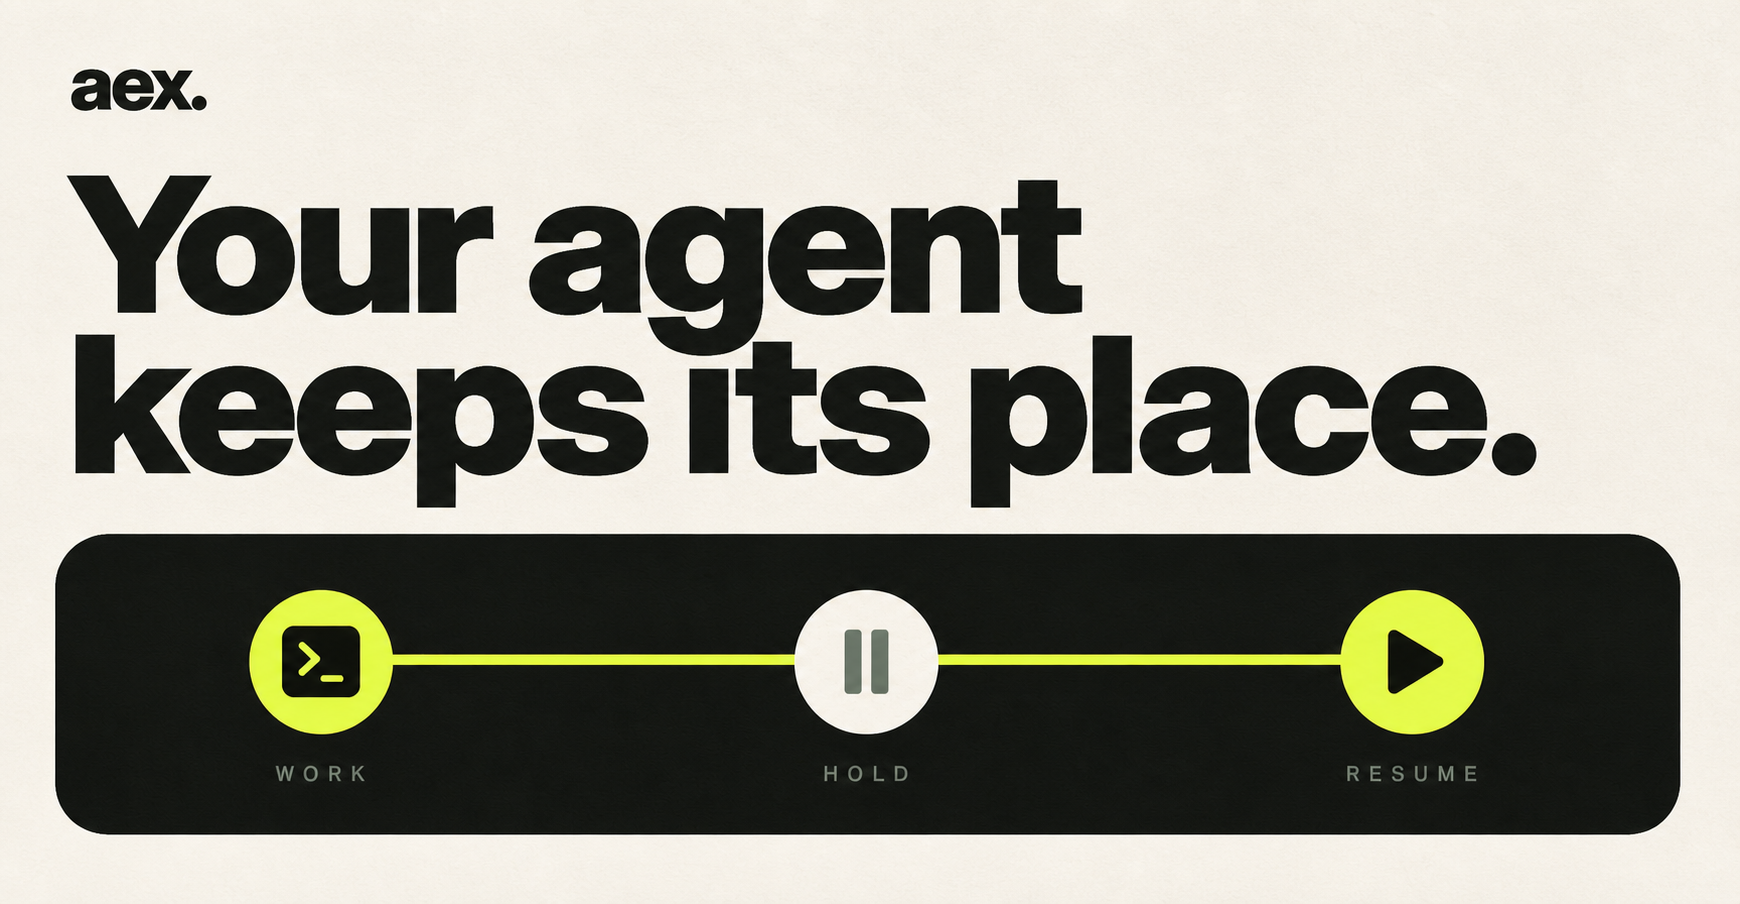
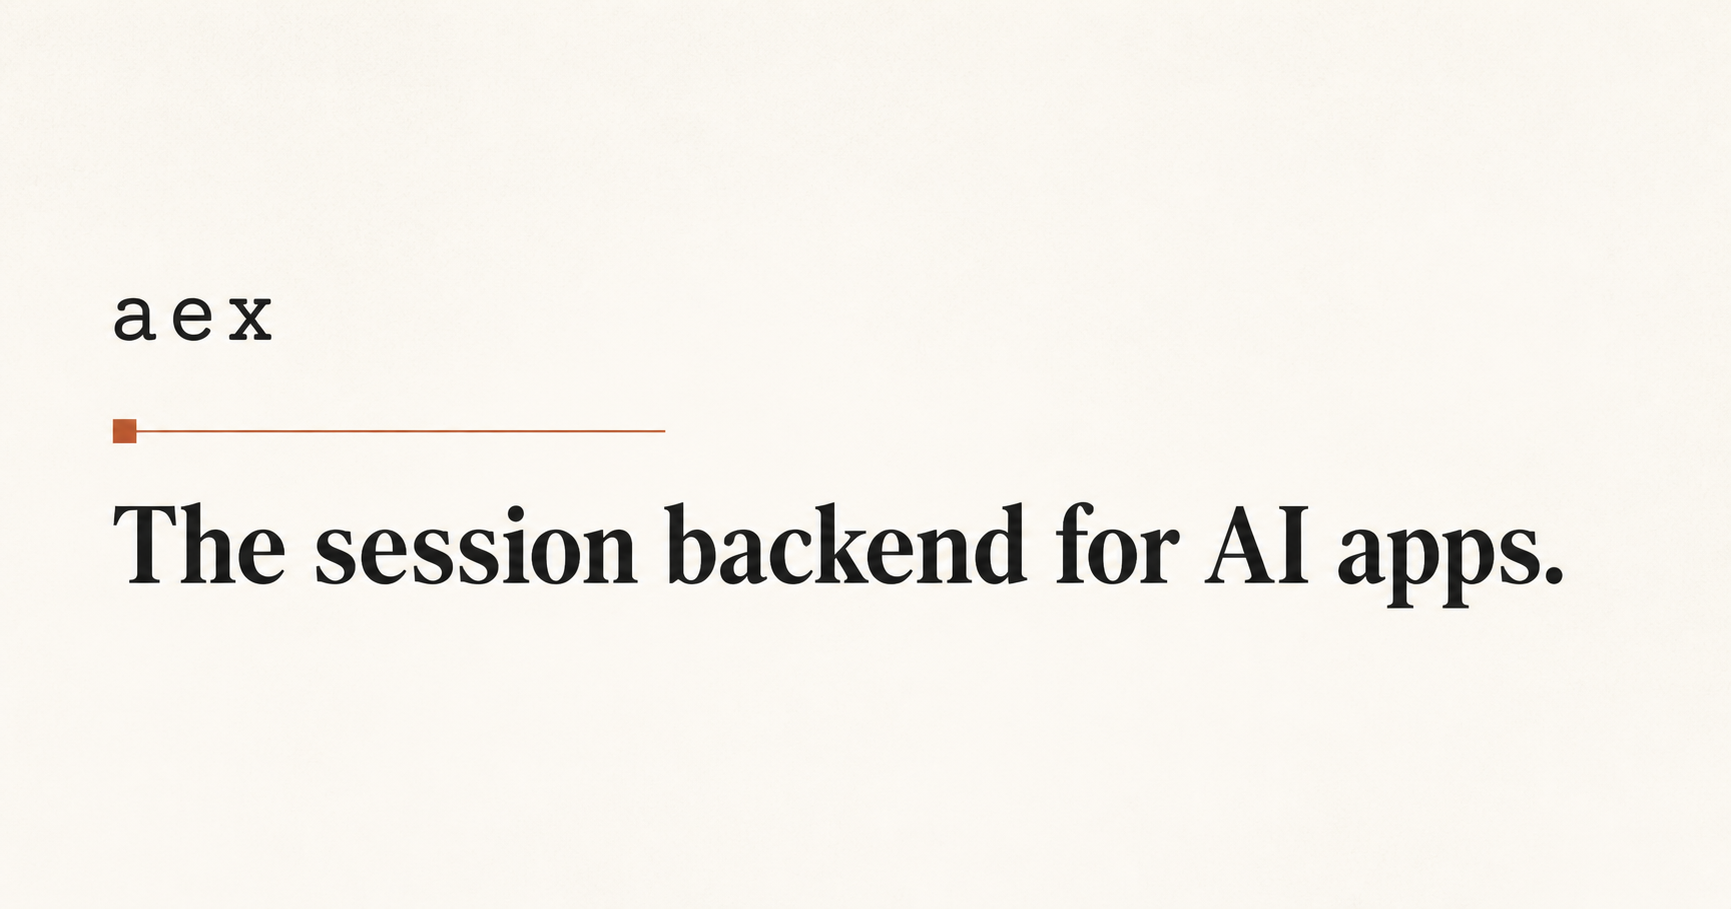
site: launch the minimal beta experience (#17)

diff --git a/app/page.tsx b/app/page.tsx
@@ -7,27 +7,40 @@ import { WaitlistForm } from "./components/WaitlistForm";
 export const metadata: Metadata = {
   title: "The session backend for AI apps",
   description:
-    "Add an agent to your product with one API. AEX keeps its model, conversation, tools, and Linux workspace together.",
+    "Start a durable AI session, give it work, and get back text or validated data.",
 };
 
 const product = [
   {
-    title: "One session",
-    body: "The conversation, model calls, tools, files, and artifacts share one durable identity. Your application has one thing to create, observe, and resume.",
+    title: "Sessions",
+    body: "One durable identity holds the conversation, model, tools, and working files. Send another message whenever you need to continue.",
   },
   {
-    title: "A Linux workspace",
-    body: "Each session can work in an isolated machine. Compute can stop between turns while the workspace and session state stay in place.",
+    title: "Tools",
+    body: "Every session starts with a computer and a small, useful toolset. Additional capabilities compose into the same session model as the beta expands.",
   },
   {
-    title: "Your model key",
-    body: "Use OpenAI or Anthropic with your own provider key. AEX encrypts it for the session and adds no markup to model usage.",
-  },
-  {
-    title: "Your app stays yours",
-    body: "Keep your frontend, database, authentication, and deployment. Call AEX only for the agent runtime behind your product.",
+    title: "Output",
+    body: "Use send() for text or output() for data validated against your Zod schema. Schema handling and one bounded repair stay outside the session conversation.",
   },
 ];
+
+const example = `import { Aex } from "@aexhq/sdk";
+import { z } from "zod";
+
+const aex = new Aex({ apiKey: "aex_sk_..." });
+const session = await aex.sessions.create({
+  model: {
+    provider: "anthropic",
+    name: "claude-sonnet-5",
+    apiKey: "sk-ant-...",
+  },
+});
+
+const result = await session.output(
+  z.object({ summary: z.string(), nextSteps: z.array(z.string()) }),
+  "Review this repository.",
+);`;
 
 export default function Home() {
   return (
@@ -35,14 +48,14 @@ export default function Home() {
       <SiteHeader />
 
       <article className="site-overview prose-shell">
-        <p className="site-kicker">Founding beta · eu-west-1</p>
+        <p className="site-kicker">Beta</p>
 
         <header className="site-intro">
           <h1>The session backend for AI apps.</h1>
           <p>
-            Add an agent to your product with one API. AEX keeps its model,
-            conversation, tools, and Linux workspace together, so it can stop
-            and resume without losing its place.
+            Start a session. Give it work. Get back text or validated data.
+            AEX keeps the context and working files, and manages the computer
+            for you.
           </p>
         </header>
 
@@ -52,6 +65,10 @@ export default function Home() {
           </a>
           <Link href="/dashboard">Open the dashboard</Link>
         </nav>
+
+        <pre className="site-code" aria-label="AEX SDK example">
+          <code>{example}</code>
+        </pre>
 
         <dl className="site-feature-list" id="product">
           {product.map((feature) => (
@@ -65,26 +82,23 @@ export default function Home() {
         <section className="site-section" id="pricing" aria-labelledby="pricing-title">
           <h2 id="pricing-title">Pricing</h2>
           <p>
-            There is no subscription and no model markup. Founding beta credit
-            is prepaid and unused credit is refundable.
+            No subscription and no model markup. Beta credit is prepaid and
+            unused credit is refundable.
           </p>
           <dl className="site-definition-list">
-            <div><dt>Active 1 GB session</dt><dd>$0.12 / hour</dd></div>
-            <div><dt>Suspended machine state</dt><dd>$0.10 / GB-month</dd></div>
-            <div><dt>Workspace and artifacts</dt><dd>$0.03 / GB-month</dd></div>
+            <div><dt>Active computer</dt><dd>$0.12 / hour</dd></div>
+            <div><dt>Stored working files</dt><dd>$0.03 / GB-month</dd></div>
             <div><dt>Web search</dt><dd>$0.003 / query</dd></div>
             <div><dt>Models</dt><dd>Bring your own key</dd></div>
-            <div><dt>Top-up</dt><dd>$10–$1,000 USD</dd></div>
           </dl>
           <p className="site-small">
-            The beta has one session shape and no uptime SLA. See the{" "}
-            <a href="https://api.aex.dev/v1/rates">live rate card</a> for the
-            machine-readable source of truth.
+            See the <a href="https://api.aex.dev/v1/rates">live rate card</a>{" "}
+            for complete metering details. The beta has no uptime SLA.
           </p>
         </section>
 
         <section className="site-section" id="beta" aria-labelledby="beta-title">
-          <h2 id="beta-title">Join the founding beta</h2>
+          <h2 id="beta-title">Join the beta</h2>
           <p>
             Access opens in small batches while the production service settles.
             Joining the list is not a paid registration and we will only use

diff --git a/app/dashboard/DashboardClient.tsx b/app/dashboard/DashboardClient.tsx
@@ -253,11 +253,11 @@ export function DashboardClient({ initialMode = "waitlist" }: { initialMode?: "w
     return (
       <section className="onboarding shell" aria-labelledby="dashboard-title">
         <div className="onboarding-copy">
-          <p className="section-index">AEX / FOUNDING BETA</p>
+          <p className="section-index">AEX / BETA</p>
           <h1 id="dashboard-title">Start in the dashboard.</h1>
           <p>
-            Join the waitlist, accept an invitation, and create your first session key here.
-            The CLI and agent skill come later.
+            Join the waitlist, accept an invitation, and create your first API key here.
+            Then use the SDK or CLI from your application.
           </p>
         </div>
         <div className="onboarding-panel">
@@ -276,8 +276,8 @@ export function DashboardClient({ initialMode = "waitlist" }: { initialMode?: "w
           {mode === "waitlist" ? (
             <div className="onboarding-form-wrap">
               <span className="step-label">01 / REQUEST ACCESS</span>
-              <h2>Join the Founding Beta.</h2>
-              <p>We are admitting a small number of teams while the product is still hands-on.</p>
+              <h2>Join the beta.</h2>
+              <p>We are admitting a small number of developers while the product is still hands-on.</p>
               <WaitlistForm compact />
             </div>
           ) : null}
@@ -316,7 +316,7 @@ export function DashboardClient({ initialMode = "waitlist" }: { initialMode?: "w
                 />
                 <span>
                   I am using AEX for professional or business purposes and agree
-                  to the <a href="/terms" target="_blank">Founding beta terms</a>.
+                  to the <a href="/terms" target="_blank">Beta terms</a>.
                 </span>
               </label>
               <button className="button button-primary" disabled={loading} type="submit">
@@ -359,7 +359,7 @@ export function DashboardClient({ initialMode = "waitlist" }: { initialMode?: "w
     <section className="dashboard shell" aria-labelledby="account-title">
       <div className="dashboard-topline">
         <div>
-          <p className="section-index">ACCOUNT / FOUNDING BETA</p>
+          <p className="section-index">ACCOUNT / BETA</p>
           <h1 id="account-title">{data.account.email}</h1>
           <p>{data.account.id} · metered {when(data.balance.metered_to)}</p>
         </div>
@@ -401,7 +401,7 @@ export function DashboardClient({ initialMode = "waitlist" }: { initialMode?: "w
           <small>Across {sessions.length} sessions</small>
         </article>
         <article>
-          <span>Session keys</span>
+          <span>API keys</span>
           <strong>{liveKeys.length}</strong>
           <small>{data.keys.length - liveKeys.length} revoked</small>
         </article>
@@ -415,7 +415,7 @@ export function DashboardClient({ initialMode = "waitlist" }: { initialMode?: "w
       <div className="action-grid">
         <form className="dashboard-action-card" onSubmit={startTopup}>
           <span className="step-label">01 / CREDIT</span>
-          <h2>Fund the runtime.</h2>
+          <h2>Add credit.</h2>
           <p>
             Unused prepaid balance is refundable. Stripe handles the card details. Review{" "}
             <a href="/#pricing" rel="noreferrer" target="_blank">pricing</a> or the{" "}
@@ -441,9 +441,9 @@ export function DashboardClient({ initialMode = "waitlist" }: { initialMode?: "w
         </form>
 
         <form className="dashboard-action-card" onSubmit={createKey}>
-          <span className="step-label">02 / SESSION KEY</span>
+          <span className="step-label">02 / API KEY</span>
           <h2>Create an API key.</h2>
-          <p>This key runs sessions. It cannot view billing or create another key.</p>
+          <p>This key creates and continues sessions. It cannot view billing or create another key.</p>
           <label htmlFor="key-name">Key name</label>
           <input
             id="key-name"
@@ -457,6 +457,28 @@ export function DashboardClient({ initialMode = "waitlist" }: { initialMode?: "w
           </button>
         </form>
       </div>
+
+      <article className="dashboard-card dashboard-quickstart">
+        <header>
+          <div><span>GET STARTED</span><h2>Use your key.</h2></div>
+          <a href="https://github.com/aexhq/aex/blob/main/docs/quickstart.md" rel="noreferrer" target="_blank">
+            Full quickstart
+          </a>
+        </header>
+        <pre><code>{`npm install @aexhq/sdk zod
+
+import { Aex } from "@aexhq/sdk";
+import { z } from "zod";
+
+const aex = new Aex({ apiKey: "aex_sk_..." });
+const session = await aex.sessions.create({
+  model: { provider: "anthropic", name: "claude-sonnet-5", apiKey: "sk-ant-..." },
+});
+const result = await session.output(
+  z.object({ answer: z.string() }),
+  "Do the work.",
+);`}</code></pre>
+      </article>
 
       <div className="dashboard-grid">
         <article className="dashboard-card session-card">

diff --git a/app/terms/page.tsx b/app/terms/page.tsx
@@ -3,7 +3,7 @@ import { SiteFooter } from "../components/SiteFooter";
 import { SiteHeader } from "../components/SiteHeader";
 import { getLegalIdentity } from "../legal";
 
-export const metadata: Metadata = { title: "Founding beta terms" };
+export const metadata: Metadata = { title: "Beta terms" };
 
 export default function TermsPage() {
   const identity = getLegalIdentity();
@@ -12,7 +12,7 @@ export default function TermsPage() {
       <SiteHeader />
       <article className="legal-page prose-shell">
         <p className="site-kicker">Last updated 19 August 2026</p>
-        <h1>Founding beta terms</h1>
+        <h1>Beta terms</h1>
 
         <p>
           These terms apply when you accept an AEX invitation. The waitlist is
@@ -28,7 +28,7 @@ export default function TermsPage() {
 
         <h2>Who the beta is for</h2>
         <p>
-          The founding beta is for people using AEX wholly or mainly for a
+          The beta is for people using AEX wholly or mainly for a
           business, trade, craft, or profession, including individual developers
           building production applications. You must be at least 18 and able to
           enter a contract.

diff --git a/app/globals.css b/app/globals.css
@@ -511,6 +511,19 @@ code, pre { font-family: var(--font-geist-mono), monospace; }
   text-underline-offset: .18em;
 }
 
+.site-code {
+  background: var(--paper-deep);
+  border: 1px solid var(--line);
+  color: var(--ink);
+  font-size: 13px;
+  line-height: 1.65;
+  margin: 42px 0 0;
+  overflow-x: auto;
+  padding: 22px 24px;
+  tab-size: 2;
+  width: 100%;
+}
+
 .site-feature-list {
   border-top: 1px solid var(--line);
   margin: 48px 0 0;
@@ -626,6 +639,24 @@ code, pre { font-family: var(--font-geist-mono), monospace; }
 .status-dot-unavailable { background: #b73328; }
 .status-dot-checking { background: #a68121; }
 .status-checked { min-height: 20px; }
+
+.dashboard-quickstart { margin-bottom: 28px; }
+.dashboard-quickstart header > a {
+  color: var(--muted);
+  font-size: 11px;
+  text-decoration: underline;
+  text-underline-offset: .2em;
+}
+.dashboard-quickstart pre {
+  background: var(--paper-deep);
+  border: 1px solid var(--line);
+  color: var(--ink);
+  font-size: 12px;
+  line-height: 1.65;
+  margin: 0 24px 24px;
+  overflow-x: auto;
+  padding: 18px;
+}
 
 .site-footer {
   background: transparent;

diff --git a/app/layout.tsx b/app/layout.tsx
@@ -30,7 +30,7 @@ export async function generateMetadata(): Promise<Metadata> {
   }
 
   const description =
-    "Add an agent to your product with one API. AEX keeps its model, conversation, tools, and Linux workspace together.";
+    "Start a durable AI session, give it work, and get back text or validated data.";
   const socialImage = new URL("/og.png", metadataBase);
   return {
     metadataBase,
@@ -45,9 +45,9 @@ export async function generateMetadata(): Promise<Metadata> {
       images: [
         {
           url: socialImage,
-          width: 1740,
-          height: 904,
-          alt: "aex. Your agent keeps its place.",
+          width: 1731,
+          height: 909,
+          alt: "aex — the session backend for AI apps.",
         },
       ],
       type: "website",

diff --git a/app/privacy/page.tsx b/app/privacy/page.tsx
@@ -52,9 +52,9 @@ export default function PrivacyPage() {
         <p>
           AEX uses infrastructure and service providers including AWS for the
           production runtime, Vercel for website hosting, Cloudflare for DNS and
-          edge proxying, and Stripe for payments. Production session data is
-          hosted in AWS eu-west-1. A provider may process limited account or
-          technical data in another country under its contractual safeguards.
+          edge proxying, and Stripe for payments. A provider may process limited
+          account or technical data in another country under its contractual
+          safeguards.
         </p>
 
         <h2>Retention</h2>

diff --git a/app/components/WaitlistForm.tsx b/app/components/WaitlistForm.tsx
@@ -36,7 +36,7 @@ export function WaitlistForm({ compact = false }: { compact?: boolean }) {
         <span aria-hidden="true">✓</span>
         <p>
           You’re on the list.
-          <small>We’ll email {email.trim()} when a Founding Beta place is ready.</small>
+          <small>We’ll email {email.trim()} when a beta place is ready.</small>
         </p>
       </div>
     );

diff --git a/app/status/page.tsx b/app/status/page.tsx
@@ -10,7 +10,7 @@ export default function StatusPage() {
     <main>
       <SiteHeader />
       <article className="legal-page prose-shell">
-        <p className="site-kicker">Production · eu-west-1</p>
+        <p className="site-kicker">Production</p>
         <h1>Service status</h1>
         <p>
           Current reachability from this site. Independent AWS health checks

diff --git a/app/dashboard/page.tsx b/app/dashboard/page.tsx
@@ -5,7 +5,7 @@ import { DashboardClient } from "./DashboardClient";
 
 export const metadata: Metadata = {
   title: "Dashboard",
-  description: "Join AEX, fund an account, create session keys, and see exact usage.",
+  description: "Join AEX, add credit, create API keys, and see exact usage.",
 };
 
 export default async function DashboardPage({

diff --git a/README.md b/README.md
@@ -1,6 +1,6 @@
 # aex site
 
-The Founding Beta product site and account dashboard for AEX.
+The Beta product site and account dashboard for AEX.
 
 - The home page explains the durable-session product, launch envelope, pricing, and waitlist.
 - The dashboard handles invitation-only signup, prepaid checkout, API-key management, usage,
@@ -17,7 +17,7 @@ to another HTTPS control-plane origin at runtime.
 
 The site is a native Next.js deployment on Vercel. Generated deployment URLs remain
 protected. A pinned GitHub Actions workflow stages each `main` build without assigning
-custom domains; `aex.dev` is assigned only when a reviewed production build is promoted.
+custom domains; an explicit promotion assigns the reviewed build to `aex.dev`.
 
     npm install
     npm run dev
